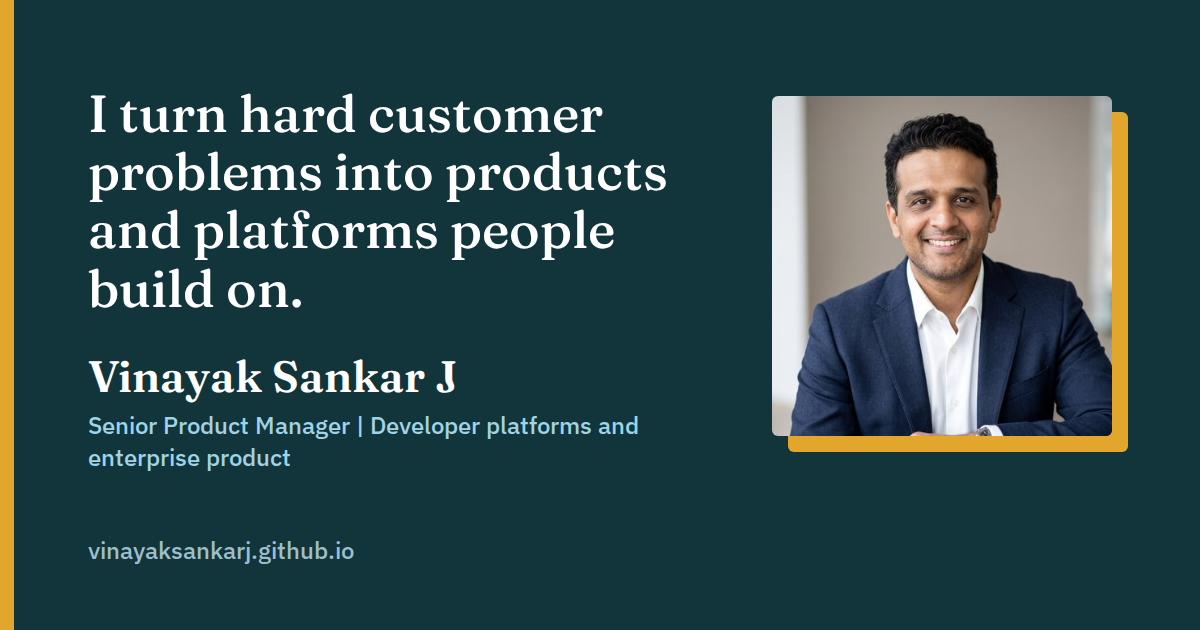
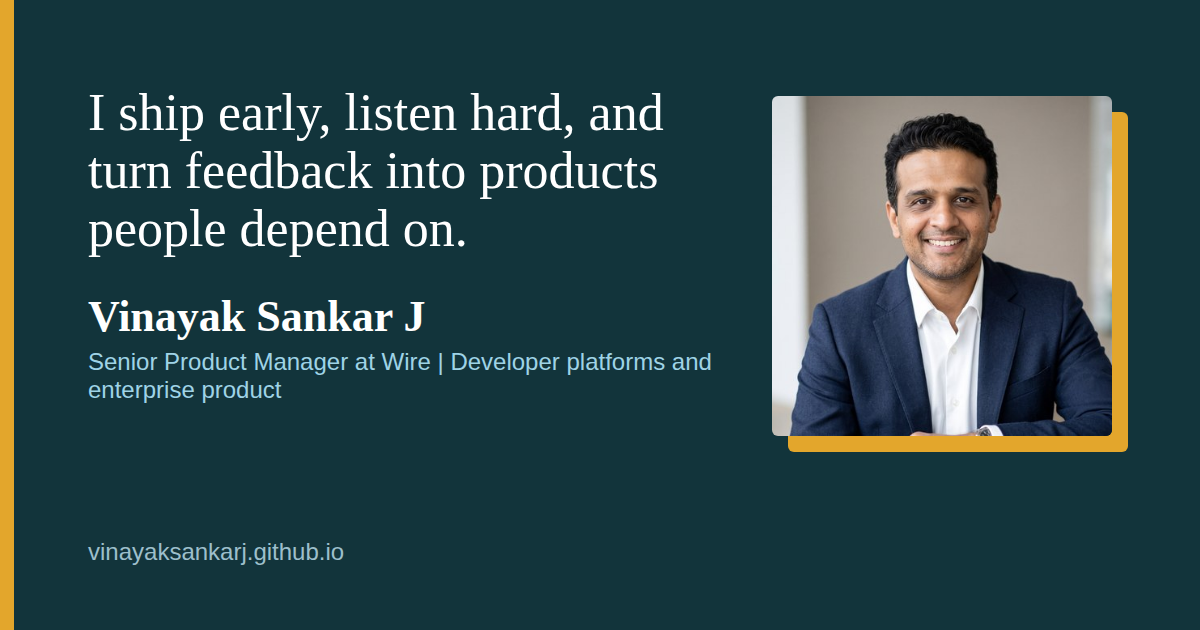
Add files via upload

Changed region(s): [[0.0617, 0.1508, 0.5858, 0.6333], [0.0617, 0.6635, 0.555, 0.754], [0.0617, 0.8444, 0.3083, 0.9048]]

diff --git a/index.html b/index.html
@@ -3,12 +3,12 @@
 <head>
 <meta charset="utf-8">
 <meta name="viewport" content="width=device-width, initial-scale=1">
-<title>Vinayak Sankar J | Senior Product Manager, Developer Platforms, Berlin</title>
-<meta name="description" content="Vinayak Sankar J is a Senior Product Manager in Berlin with 20 years of experience. He builds developer platforms, SDKs and apps ecosystems, and enterprise products, and prototypes AI features. Launches, case studies, skills, and experience.">
+<title>Vinayak Sankar J | Senior Product Manager at Wire, Berlin</title>
+<meta name="description" content="Vinayak Sankar J is a Senior Product Manager at Wire GmbH in Berlin, a secure messenger. 20 years of experience: developer platforms, SDKs and apps, enterprise product, and AI prototyping. Launches from the last year, skills, and experience.">
 <meta name="author" content="Vinayak Sankar J">
 <meta name="robots" content="index, follow, max-image-preview:large, max-snippet:-1">
-<meta property="og:title" content="Vinayak Sankar J | Senior Product Manager, Developer Platforms, Berlin">
-<meta property="og:description" content="Turning hard customer problems into products and platforms people build on. Launches, case studies, and experience.">
+<meta property="og:title" content="Vinayak Sankar J | Senior Product Manager at Wire, Berlin">
+<meta property="og:description" content="Senior Product Manager at Wire GmbH, a secure messenger. Developer platforms, SDKs and apps, enterprise product, AI prototyping.">
 <meta property="og:type" content="profile">
 <meta property="og:locale" content="en_US">
 <meta property="profile:first_name" content="Vinayak">
@@ -67,14 +67,15 @@ a:hover{color:var(--navy)}
 
 /* hero */
 .hero{background:var(--navy);color:#fff;padding:72px 0 88px}
-.hero h1{font-family:var(--serif);font-weight:500;font-size:clamp(36px,5.2vw,62px);line-height:1.08;letter-spacing:-.01em;max-width:15em}
+.hero h1{text-wrap:balance;font-family:var(--serif);font-weight:500;font-size:clamp(34px,4.6vw,56px);line-height:1.08;letter-spacing:-.01em;max-width:15em}
 .hero-grid{display:grid;grid-template-columns:minmax(0,1fr) 300px;gap:64px;align-items:center}
 .portrait{margin:0 14px 14px 0}
 .portrait img{display:block;width:100%;height:auto;border-radius:4px;box-shadow:14px 14px 0 var(--amber);background:#1b4a54}
 .portrait figcaption{margin-top:34px}
 .portrait strong{display:block;font-family:var(--serif);font-weight:600;font-size:22px;color:#fff}
 .portrait span{display:block;color:#9FD3E6;font-size:16px;margin-top:2px}
-.hero .role{margin-top:28px;font-size:20px;color:#CFE6EE;max-width:34em}
+.hero .statement{text-wrap:pretty;margin-top:26px;font-size:20px;line-height:1.55;color:#fff;max-width:34em}
+.hero .role{margin-top:16px;font-size:16px;color:#9FD3E6;max-width:36em}
 .hero .actions{margin-top:36px;display:flex;gap:14px;flex-wrap:wrap}
 .btn{display:inline-block;padding:13px 22px;border-radius:3px;font-weight:600;text-decoration:none;font-size:16px}
 .btn.primary{background:var(--amber);color:var(--navy)}
@@ -135,6 +136,15 @@ summary .s{display:block;color:var(--muted);margin-top:4px}
 .cols li{padding:5px 0;border-bottom:1px solid var(--line)}
 
 
+/* about */
+.about-grid{display:grid;grid-template-columns:repeat(2,minmax(0,1fr));gap:44px 56px}
+.about-grid h3{font-family:var(--serif);font-weight:600;font-size:22px;color:var(--navy);margin-bottom:10px;padding-top:14px;border-top:4px solid var(--amber)}
+.about-grid p{max-width:34em}
+.about-grid ul{list-style:none}
+.about-grid li{padding:8px 0;border-bottom:1px solid var(--line)}
+.about-grid li:first-child{padding-top:0}
+@media (max-width:900px){.about-grid{grid-template-columns:1fr;gap:32px}}
+
 /* skills: prominent band */
 #skills{background:var(--mist);border-top:none;padding:84px 0}
 #skills h2{font-size:clamp(32px,4.6vw,46px)}
@@ -181,7 +191,7 @@ footer a{color:#CFE6EE}
    "@type": "ProfilePage",
    "@id": "https://vinayaksankarj.github.io/#profile",
    "url": "https://vinayaksankarj.github.io/",
-   "name": "Vinayak Sankar J | Senior Product Manager, Developer Platforms, Berlin",
+   "name": "Vinayak Sankar J | Senior Product Manager at Wire, Berlin",
    "inLanguage": "en",
    "dateModified": "2026-10-05",
    "mainEntity": {
@@ -200,7 +210,7 @@ footer a{color:#CFE6EE}
    "url": "https://vinayaksankarj.github.io/",
    "image": "https://vinayaksankarj.github.io/photo.jpg",
    "jobTitle": "Senior Product Manager",
-   "description": "Senior Product Manager with 20 years across engineering, delivery, and product. Builds developer platforms, SDKs, and apps ecosystems, leads enterprise product, and prototypes AI features.",
+   "description": "Senior Product Manager at Wire GmbH in Berlin with 20 years across engineering, delivery, and product. Builds developer platforms, SDKs, and apps ecosystems, leads enterprise product, and is an AI enthusiast who prototypes fast and listens to customers and developers.",
    "address": {
     "@type": "PostalAddress",
     "addressLocality": "Berlin",
@@ -219,7 +229,9 @@ footer a{color:#CFE6EE}
     "Apps ecosystems",
     "Enterprise B2B software",
     "Customer discovery",
+    "Artificial intelligence",
     "AI prototyping",
+    "Rapid prototyping",
     "Agile and Scrum",
     "Stakeholder management",
     "Program management"
@@ -276,6 +288,11 @@ footer a{color:#CFE6EE}
      "name": "Berlin"
     },
     "skills": "Product strategy, roadmapping, developer platforms, SDKs and APIs, customer discovery, AI prototyping, Agile and Scrum"
+   },
+   "worksFor": {
+    "@type": "Organization",
+    "name": "Wire GmbH",
+    "url": "https://wire.com"
    }
   }
  ]
@@ -283,15 +300,15 @@ footer a{color:#CFE6EE}
 </script>
 </head>
 <body>
-<a class="skip" href="#work">Skip to launches and case studies</a>
+<a class="skip" href="#work">Skip to content</a>
 
 <header class="bar">
   <div class="wrap">
     <strong><a class="name" href="https://linkedin.com/in/vinayak-sankar-j" rel="noopener" aria-label="Vinayak Sankar J on LinkedIn">Vinayak Sankar J</a></strong>
     <nav aria-label="Sections">
       <a href="#results">Results</a>
+      <a href="#about">About</a>
       <a href="#launches">Launches</a>
-      <a href="#cases">Case studies</a>
       <a href="#skills">Skills</a>
       <a href="#experience">Experience</a>
       <a href="#contact">Contact</a>
@@ -303,16 +320,17 @@ footer a{color:#CFE6EE}
 <div class="hero">
   <div class="wrap hero-grid">
     <div class="hero-text">
-    <h1 aria-label="I turn hard customer problems into products and platforms people build on."><span aria-hidden="true" data-decrypt>I turn hard customer problems into products and platforms people build on.</span></h1>
-    <p class="role">Senior Product Manager at a confidential messenger app. I lead Integrations (SDK and AI) and Core Messenger, from customer discovery and prototype to launch.</p>
+    <h1 aria-label="I ship early, listen hard, and turn feedback into products people depend on."><span aria-hidden="true" data-decrypt>I ship early, listen hard, and turn feedback into products people depend on.</span></h1>
+    <p class="statement">I have spent 20 years building things that solve real problems for real users. I started as a developer writing mainframe code, learned to lead teams of up to 100, and found my place in product. I go after the problems customers keep raising, prototype before I specify, and bring teams along with me. I like it best when a rough idea starts to work.</p>
+    <p class="role">Senior Product Manager at Wire GmbH, a secure, end-to-end encrypted messenger built in Europe. I lead Integrations (SDK and AI) and Core Messenger, from customer discovery to launch.</p>
     <div class="actions">
-      <a class="btn primary" href="#cases">Read the case studies</a>
-      <a class="btn ghost" href="#launches">See the launches</a>
+      <a class="btn primary" href="#launches">See what I shipped</a>
+      <a class="btn ghost" href="#about">About me</a>
     </div>
     </div>
     <figure class="portrait">
-      <img src="photo.jpg" width="640" height="640" alt="Portrait of Vinayak Sankar J, Senior Product Manager in Berlin" fetchpriority="high" decoding="async">
-      <figcaption><strong>Vinayak Sankar J</strong><span>Senior Product Manager, Berlin</span></figcaption>
+      <img src="photo.jpg" width="640" height="640" alt="Portrait of Vinayak Sankar J, Senior Product Manager at Wire in Berlin" fetchpriority="high" decoding="async">
+      <figcaption><strong>Vinayak Sankar J</strong><span>Senior Product Manager, Wire, Berlin</span></figcaption>
     </figure>
   </div>
 </div>
@@ -322,18 +340,48 @@ footer a{color:#CFE6EE}
     <h2 id="h-results">Results</h2>
     <p class="lede">What changed for the product and its customers because of the work below.</p>
     <ul class="ledger">
-      <li><span class="n">10 new paying teams</span><span class="c"><b>Integrations SDK.</b> A developer platform on top of the messenger: new paying teams, a growing developer community, and new partnerships.</span></li>
+      <li><span class="n">10 new paying teams</span><span class="c"><b>Integrations SDK.</b> A developer platform on top of Wire: new paying teams, a growing developer community, and new partnerships.</span></li>
       <li><span class="n">5 supported apps</span><span class="c"><b>External Apps.</b> Developers build apps and share them across teams. Ten paying teams are actively building, many privately for their own organization.</span></li>
       <li><span class="n">70% of developers</span><span class="c"><b>A customer survey set the SDK roadmap.</b> Most of the developers surveyed wanted TypeScript/JavaScript and Java/Kotlin, so both SDKs shipped.</span></li>
       <li><span class="n">+24% iOS app downloads</span><span class="c"><b>Multi-backend support and navigation changes on iOS.</b> Both were top enterprise requests. Together they gave the app a fresh look and helped keep major customers from churning.</span></li>
-      <li><span class="n">A gap closed</span><span class="c"><b>Preventing Adminless Groups.</b> A problem open since the product&rsquo;s inception, raised by its most critical enterprise customers, fixed with no compromise to security.</span></li>
+      <li><span class="n">A gap closed</span><span class="c"><b>Preventing Adminless Groups.</b> A problem open since Wire&rsquo;s inception, raised by its most critical enterprise customers, fixed with no compromise to security.</span></li>
     </ul>
+  </div>
+</section>
+
+<section id="about" aria-labelledby="h-about">
+  <div class="wrap">
+    <h2 id="h-about">About me</h2>
+    <p class="lede">Here is who you would be working with.</p>
+    <div class="about-grid">
+      <div>
+        <h3>How I work with teams</h3>
+        <p>I listen first. I am patient and empathetic, and I take 360-degree feedback seriously because I want to keep getting better. I start with the customer and work back, prototype early so the team debates something real, and keep the first version small enough to ship. I focus on speed and quick delivery: shipping early brings feedback early, so we improve as we go instead of waiting until the last minute. I coach more than I command, and I say what I think in plain language.</p>
+      </div>
+      <div>
+        <h3>What I value</h3>
+        <ul>
+          <li><b>Customers and developers, equally.</b> I value both, and a product succeeds when both are actively involved.</li>
+          <li><b>Listening and learning.</b> I ask for feedback from every direction and keep improving.</li>
+          <li><b>New challenges.</b> I accept each one as a chance to learn and excel. Every new opportunity is a way to improve myself and add more value.</li>
+          <li><b>Trust.</b> People I have worked with describe me as dependable, trustworthy, and a team player.</li>
+        </ul>
+      </div>
+      <div>
+        <h3>AI and speed</h3>
+        <p>I am an AI enthusiast. I see AI as a tool that extends what we can deliver and build. I like speed and agility: fast prototypes, early feedback, quick corrections.</p>
+      </div>
+      <div>
+        <h3>My journey</h3>
+        <p>I trained as an electrical engineer in Trivandrum, Kerala. Infosys put me on mainframes, then onsite with clients in the US. At EY in India I went from running projects to owning products across APAC and EMEIA, with teams of up to 100. In 2022 I joined Wire GmbH, a secure messenger. It was an opportunity I could not miss: working with some of the best minds in the industry, and learning first-hand how much privacy and security matter to us in the modern world. I started with Wire&rsquo;s most critical customers and moved into product. Every step taught me the same thing: the closer I get to the customer, the better the product.</p>
+      </div>
+    </div>
   </div>
 </section>
 
 <section id="launches" aria-labelledby="h-launches">
   <div class="wrap">
-    <h2 id="h-launches">Selected launches</h2>
+    <h2 id="h-launches">Product shipments in the last year</h2>
     <p class="lede">Each one links to its public announcement.</p>
 
     <div class="group">
@@ -359,53 +407,6 @@ footer a{color:#CFE6EE}
   </div>
 </section>
 
-<section id="cases" aria-labelledby="h-cases">
-  <div class="wrap">
-    <h2 id="h-cases">Case studies</h2>
-    <p class="lede">Three pieces of work, in short. Employer, customer, and partner names are withheld for confidentiality.</p>
-
-    <details>
-      <summary><span class="t">Building a developer platform from a customer survey</span><span class="s">From a survey to an SDK, a documentation portal, and paying teams.</span></summary>
-      <div class="case">
-        <h3>The problem</h3>
-        <p>Enterprises wanted to extend the messenger with their own apps and integrations. The platform had to be easy for developers to adopt and easy for admins to control.</p>
-        <h3>What we did</h3>
-        <ul>
-          <li>Surveyed customers. 70% of their developers wanted TypeScript/JavaScript or Java/Kotlin, which set the SDK roadmap and led to both SDKs.</li>
-          <li>Designed the developer documentation portal. I defined every flow and the document structure.</li>
-          <li>Shipped External Apps so developers can share apps across teams, and Apps Management so admins stay in control.</li>
-        </ul>
-        <h3>The outcome</h3>
-        <p>10 new paying teams, 5 supported apps, new partnerships, and a growing community of developers who want to build on the messenger.</p>
-      </div>
-    </details>
-
-    <details>
-      <summary><span class="t">Prototyping AI recording and transcription</span><span class="s">A working prototype, offered as an opt-in add-on.</span></summary>
-      <div class="case">
-        <h3>The problem</h3>
-        <p>Some customers want recording and transcription. Many do not want their data shared with outside AI services.</p>
-        <h3>What we did</h3>
-        <p>Built a working prototype that connects external AI, and positioned it as an optional add-on, not a core feature. It is marketed only to customers who are comfortable with that data sharing. The developer documentation shows how apps can connect external systems to the messenger.</p>
-        <h3>The outcome</h3>
-        <p>AI features for the customers who want them, and the core product unchanged for everyone else.</p>
-      </div>
-    </details>
-
-    <details>
-      <summary><span class="t">Closing the adminless groups gap</span><span class="s">A long-standing enterprise problem, solved without trading away trust.</span></summary>
-      <div class="case">
-        <h3>The problem</h3>
-        <p>Groups could end up without an administrator. The gap had been there since the product began, and its most critical enterprise customers kept raising it.</p>
-        <h3>The constraint</h3>
-        <p>Customers choose the product for security and compliance. Any fix had to hold that line.</p>
-        <h3>The outcome</h3>
-        <p>The gap is closed, with no compromise to security.</p>
-      </div>
-    </details>
-  </div>
-</section>
-
 <section id="skills" aria-labelledby="h-skills">
   <div class="wrap">
     <h2 id="h-skills">Skills and credentials</h2>
@@ -427,7 +428,7 @@ footer a{color:#CFE6EE}
       <li>
         <div class="when">2022 to now</div>
         <div class="what">Program Manager, then Senior Program Manager, then Senior Product Manager</div>
-        <div class="where">Confidential messenger app, Berlin</div>
+        <div class="where">Wire GmbH, a secure messenger, Berlin</div>
         <p>Own the roadmap for Integrations (team of 6) and Core Messenger (team of 10), supporting 10 major enterprise accounts in sectors where security, compliance, and legal demands come first. Started in service delivery, setting up customer support and managing the critical customer portfolio, before moving into product.</p>
       </li>
       <li>
